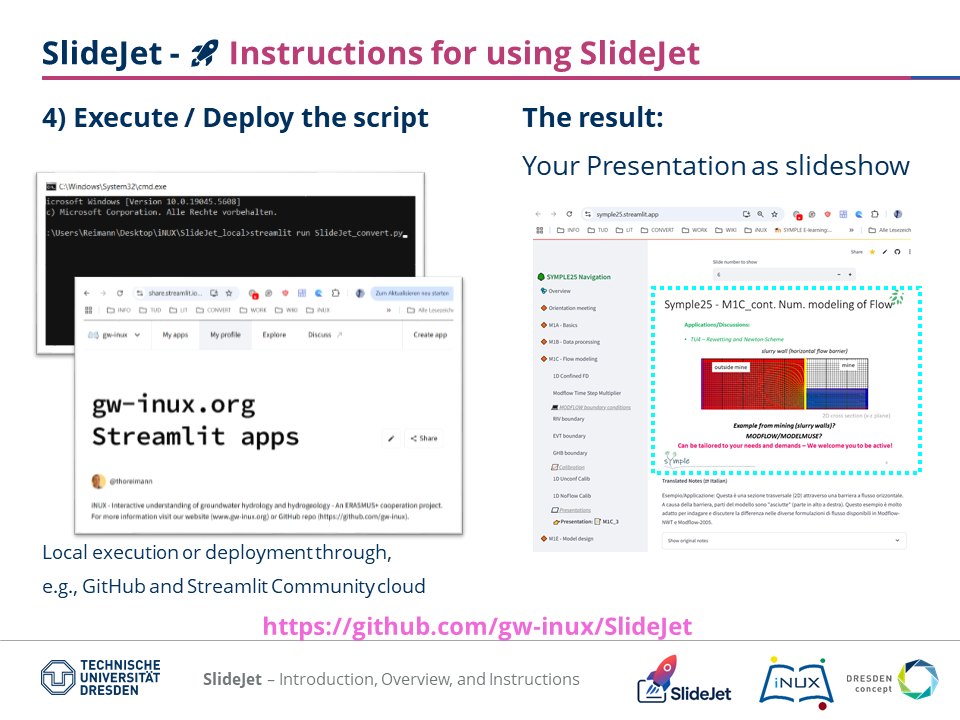
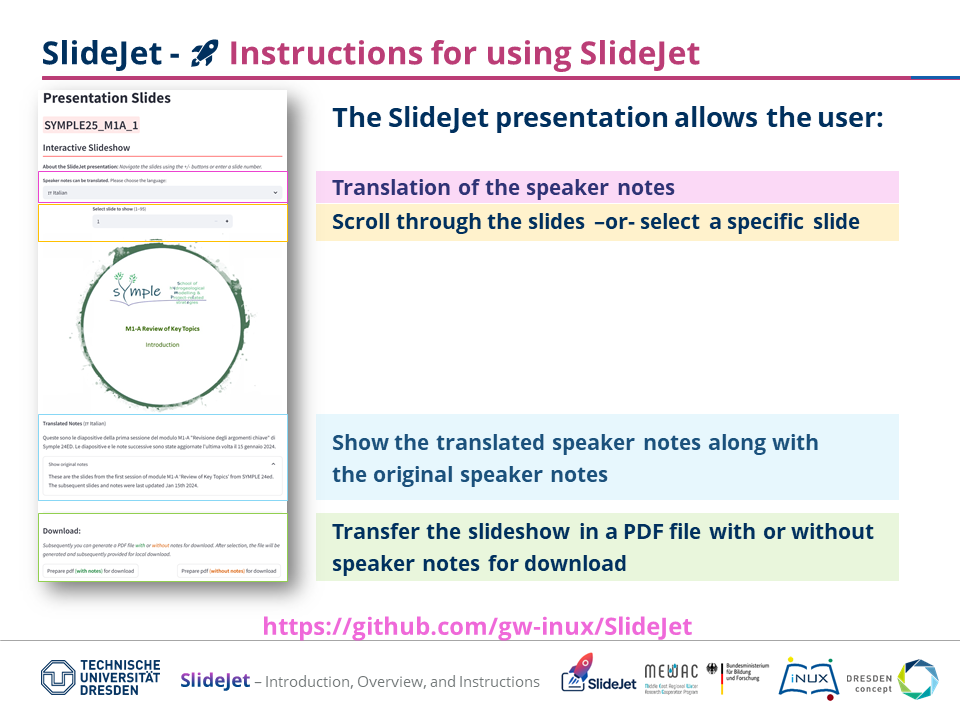
updates

Changed region(s): [[0.0312, 0.1222, 0.9688, 0.8556], [0.1875, 0.8861, 0.875, 1.0]]

diff --git a/SlideJet_convert.py b/SlideJet_convert.py
@@ -8,19 +8,50 @@ import pythoncom
 import win32com.client
 from PIL import Image
 
-###
-# Authors, institutions, and year
-year = 2025 
-authors = {
-    "Thomas Reimann": [1],  # Author 1 belongs to Institution 1
-   #"Colleague Name": [2],  # Author 2 also belongs to Institution 1
-}
-institutions = {
-    1: "TU Dresden",
-   #2: "Second Institution / Organization"
-}
-author_list = [f"{name}{''.join(f'<sup>{i}</sup>' for i in idxs)}" for name, idxs in authors.items()]
-institution_text = " | ".join([f"<sup>{i}</sup> {inst}" for i, inst in institutions.items()])
+# --- Functions
+
+def clear_old_files(folder_path):
+    """Deletes all files in the folder before writing new ones."""
+    if os.path.exists(folder_path):
+        shutil.rmtree(folder_path)  # Delete everything inside the folder
+    os.makedirs(folder_path)  # Recreate the folder
+
+def convert_ppt_to_images_using_powerpoint(ppt_path, image_dir):
+    """Uses PowerPoint COM automation to export full slides as images"""
+    pythoncom.CoInitialize()
+    powerpoint = win32com.client.Dispatch("PowerPoint.Application")
+    powerpoint.Visible = 1  # Run PowerPoint in the background
+    # Open the presentation
+    presentation = powerpoint.Presentations.Open(ppt_path, WithWindow=False)
+    # Ensure output directory exists and clear old images
+    clear_old_files(image_dir)
+    slide_data = []
+    slide_count = presentation.Slides.Count
+    for i in range(1, slide_count + 1):
+        slide_filename = f"slide_{i}.png"
+        slide_path = os.path.join(image_dir, slide_filename)
+        try:
+            presentation.Slides(i).Export(slide_path, "PNG")
+            # Extract notes
+            notes = "No notes"
+            if presentation.Slides(i).NotesPage.Shapes.Count > 1:
+                notes_shape = presentation.Slides(i).NotesPage.Shapes.Placeholders(2)
+                if notes_shape.TextFrame.HasText:
+                    notes = notes_shape.TextFrame.TextRange.Text.strip()
+            
+            # Store only relative path for the JSON
+            slide_data.append({"image": f"images/{slide_filename}", "notes": notes})
+        except Exception as e:
+            st.error(f"Error exporting slide {i}: {e}")
+    presentation.Close()
+    #powerpoint.Quit()
+    pythoncom.CoUninitialize()
+    return slide_data
+
+def save_slide_data_json(slide_data, json_file):
+    """Saves slide images and notes in a structured JSON format for Streamlit slideshow."""
+    with open(json_file, "w") as f:
+        json.dump(slide_data, f, indent=4)
 
 def save_yaml_config(yaml_output_path, slides_subfolder, header_text, subheader_text, mode, yaml_repo_path=None):
     if mode == "Local use":
@@ -40,6 +71,7 @@ def save_yaml_config(yaml_output_path, slides_subfolder, header_text, subheader_
     with open(yaml_output_path, "w") as f:
         yaml.dump(config, f, default_flow_style=False, sort_keys=False)
 
+# --- Application
 
 # Header and title
 st.set_page_config(
@@ -57,11 +89,20 @@ st.markdown("""
     SlideJet works with PowerPoint in the background to convert your slides. **Now** it's a good moment to safe your open presentations in case of unexpected troubles with PowerPoint.
         """)
 
+st.subheader('First step: Upload the presentation file', divider = 'green')
 # File upload section
 uploaded_file = st.file_uploader("Upload a PowerPoint file", type=["pptx"])
 
+
 if uploaded_file:
     
+    # --- Define Paths 
+    st.subheader('Next steps: Define paths', divider = 'green')
+    st.markdown("""
+    #### Local path
+    :green[**SlideJet-Convert**] will generate slideshow data that can be seen by the :orange[**SlideJet-Present**] app. The YAML-file, which contains some settings for :orange[**SlideJet-Present**], is saved in the same folder. Define the path of this folder (on your computer) below:
+    """
+    )
     # Extract filename (without extension)
     pptx_filename = os.path.splitext(uploaded_file.name)[0]
 
@@ -70,21 +111,36 @@ if uploaded_file:
         "Enter the folder where SlideJet_present is located (YAML will be saved here)",
         value=os.getcwd()
     )
+    st.markdown("""
+    #### Information for online deployment
+    :orange[**SlideJet-Present**] is typically placed in an online repository (e.g., GitHub) from where the Streamlit-app is deployed. Accordingly, the YAML file needs specific informations to find the presentation for online use. Define the path from the repository to the YAML file below:
+    """
+    )
     deployment_mode = st.radio("Deployment Mode",["Local use", "Online use (Streamlit Cloud)"], index=0)
     if deployment_mode == "Online use (Streamlit Cloud)":
         yaml_repo_path = st.text_input(
-            "Enter the repository-relative path to the YAML file (e.g., `project\presentations`)",
+            "Enter the relative path from the repository to the YAML file (e.g., `project\presentations`). The name of the repository is usually not part of the path",
             value=""
         )
-    
+    st.markdown("""
+    #### Relative path to the presentation data
+    :orange[**SlideJet-Present**] access the data from a folder that is typically named **slides**. Within slides, each presentation can be saved in a subfolder. Subsequently, you can define the relative path, whereas the presetting is likely suitable for most users:
+    """
+    )
     # Slides folder (relative to SlideJet_present folder)
     slides_subfolder = st.text_input(
-        "Enter the relative path where the slides will be saved (from YAML location)",
+        "Enter the relative path where the slides will be saved (from YAML location). Usually it 'slides/[NAME_OF_PRESENTATION]'",
         value=os.path.join("slides", pptx_filename).replace("\\", "/")
     )
     # Compute the absolute output directory
     slides_absolute_path = os.path.join(present_folder, slides_subfolder)
     
+    # --- PRESENTATION HEADERS
+    st.subheader('SlideJet-Present header information', divider = 'green')
+    st.markdown("""
+    :orange[**SlideJet-Present**] is an interactive Streamlit app that shows your presentation with notes as a slideshow. Subsequently, you can define the header and subheader for your specific :orange[**SlideJet-Present**] Streamlit app. This information will be safed in the YAML-file.
+    """
+    )
     default_header = f"{pptx_filename}"
     default_subheader = "Interactive Slideshow"
     header_text = st.text_input("Enter header text (main title)", value=default_header)
@@ -96,60 +152,14 @@ if uploaded_file:
     IMAGE_DIR = os.path.join(OUTPUT_DIR, "images")
     JSON_FILE = os.path.join(OUTPUT_DIR, "slide_data.json")
 
-
-    def clear_old_files(folder_path):
-        """Deletes all files in the folder before writing new ones."""
-        if os.path.exists(folder_path):
-            shutil.rmtree(folder_path)  # Delete everything inside the folder
-        os.makedirs(folder_path)  # Recreate the folder
-
-    def convert_ppt_to_images_using_powerpoint(ppt_path, image_dir):
-        """Uses PowerPoint COM automation to export full slides as images"""
-        pythoncom.CoInitialize()
-        powerpoint = win32com.client.Dispatch("PowerPoint.Application")
-        powerpoint.Visible = 1  # Run PowerPoint in the background
-
-        # Open the presentation
-        presentation = powerpoint.Presentations.Open(ppt_path, WithWindow=False)
-
-        # Ensure output directory exists and clear old images
-        clear_old_files(image_dir)
-
-        slide_data = []
-        slide_count = presentation.Slides.Count
-
-        for i in range(1, slide_count + 1):
-            slide_filename = f"slide_{i}.png"
-            slide_path = os.path.join(image_dir, slide_filename)
-
-            try:
-                presentation.Slides(i).Export(slide_path, "PNG")
-
-                # Extract notes
-                notes = "No notes"
-                if presentation.Slides(i).NotesPage.Shapes.Count > 1:
-                    notes_shape = presentation.Slides(i).NotesPage.Shapes.Placeholders(2)
-                    if notes_shape.TextFrame.HasText:
-                        notes = notes_shape.TextFrame.TextRange.Text.strip()
-                
-                # Store only relative path for the JSON
-                slide_data.append({"image": f"images/{slide_filename}", "notes": notes})
-
-            except Exception as e:
-                st.error(f"Error exporting slide {i}: {e}")
-
-        presentation.Close()
-        #powerpoint.Quit()
-        pythoncom.CoUninitialize()
-
-        return slide_data
-
-    def save_slide_data_json(slide_data, json_file):
-        """Saves slide images and notes in a structured JSON format for Streamlit slideshow."""
-        with open(json_file, "w") as f:
-            json.dump(slide_data, f, indent=4)
-
-    if st.button("Convert to Slideshow Data"):
+    # --- Final Step - Convert
+    st.subheader('Final step: Convert the slideshow', divider = 'green')
+    
+    col1, col2, col3 = st.columns((1,1,1))
+    with col2:
+        start_convert = st.button(":rainbow[**Convert to Slideshow Data**]")
+        
+    if start_convert:
         # Save uploaded file to a unique temporary file
         with tempfile.NamedTemporaryFile(delete=False, suffix=".pptx") as tmp_file:
             tmp_file.write(uploaded_file.getbuffer())
@@ -166,11 +176,9 @@ if uploaded_file:
             st.success(f"Slide data JSON saved for Streamlit slideshow in `{JSON_FILE}`.")
             
             # Write YAML file in parent folder
-#           yaml_file = os.path.join(script_dir, f"{pptx_filename}_slidejet_config.yaml")
             yaml_file = os.path.join(present_folder, f"{pptx_filename}_slidejet_config.yaml")
             # Compute correct relative path from script dir to output dir
             #slides_relative_path = os.path.relpath(OUTPUT_DIR, script_dir).replace("\\", "/")
-#           save_yaml_config(slides_relative_path, yaml_file, header_text, subheader_text)
             if deployment_mode == "Online use (Streamlit Cloud)":
                 save_yaml_config(
                     yaml_output_path=yaml_file,
@@ -189,19 +197,31 @@ if uploaded_file:
                     mode=deployment_mode
                 )
 
-
             st.success(f"YAML config for SlideJet Present saved as `{yaml_file}`.")
             st.markdown("""
             #### Next steps
-            Now you will find the slides, the speaker notes (as *.json file), and the YAML file in the generated folders - see messages above. The see and present the slides, use the **SlideJet_present**.py application with the generated YAML file. You have two options:
-            (1) Directly refer to the YAML file from the SlideJet_present.py application, or
-            (2) Select and load the YAML file from the SlideJet_present.py application.
+            Now you will find the slides, the speaker notes (as *.json file), and the YAML file in the generated folders - see messages above. The see and present the slides, use the :orange[**SlideJet_present.py**] application with the generated YAML file. You have two options:
+            (1) Directly refer to the YAML file from the :orange[**SlideJet_present.py**] application, or
+            (2) Select and load the YAML file from the :orange[**SlideJet_present.py**] application.
             """)
         
         # Delete temporary file
         os.remove(temp_ppt_path)
 
 '---'
+# Authors, institutions, and year
+year = 2025 
+authors = {
+    "Thomas Reimann": [1],  # Author 1 belongs to Institution 1
+   #"Colleague Name": [2],  # Author 2 also belongs to Institution 1
+}
+institutions = {
+    1: "TU Dresden",
+   #2: "Second Institution / Organization"
+}
+author_list = [f"{name}{''.join(f'<sup>{i}</sup>' for i in idxs)}" for name, idxs in authors.items()]
+institution_text = " | ".join([f"<sup>{i}</sup> {inst}" for i, inst in institutions.items()])
+
 # Render footer with authors, institutions, and license logo in a single line
 columns_lic = st.columns((4,1,1))
 with columns_lic[0]:

diff --git a/SlideJet_present.py b/SlideJet_present.py
@@ -17,14 +17,17 @@ from reportlab.lib.units import cm
 
 ###########################
 # EVENTUALLY ADAPT HERE:
-#
-# PART OF A MULTIPAGE-APP? REMOVE THE FOLLOWING LINE
+
+# PART OF A MULTIPAGE-APP?
+# THEN REMOVE THE FOLLOWING LINE
 st.set_page_config(page_title="SlideJet - Present", page_icon="🚀")
-#
+
 # --- Default YAML path, use / ---
 DEFAULT_YAML = "example.yaml"
 
-# --- Proxy ID --- This should be a unique ID if the app is used multiple times in a multipage app (string required)
+# --- Proxy ID --- This should be
+# an unique ID if the app is used
+# multiple times in a multipage app (string required)
 app_id = "app01"
 #
 ###########################
@@ -190,11 +193,14 @@ presentation_folder_key = f"{app_id}_presentation_folder"
 images_folder_key = f"{app_id}_images_folder"
 header_text_key = f"{app_id}_header_text"
 subheader_text_key = f"{app_id}_subheader_text"
-
+default_yaml_key = f"{app_id}_default_yaml"
 
 # --- Initialize reset mode ---
 if reset_key not in st.session_state:
     st.session_state[reset_key] = False
+    
+if default_yaml_key not in st.session_state:
+    st.session_state[default_yaml_key] = DEFAULT_YAML
 
 # --- Configuration loading / depending if it's the start or a reset ---
 if config_key not in st.session_state or st.session_state[config_key] is None:
@@ -202,7 +208,8 @@ if config_key not in st.session_state or st.session_state[config_key] is None:
     if st.session_state[reset_key]:
         # User wants to load a new YAML, show uploader
         st.session_state[config_key] = None
-        st.warning("Please upload a new SlideJet YAML file.")
+        st.warning("Please upload a new SlideJet YAML file. Alternatively, you can use the Default YAML again.")
+        
         uploaded_yaml = st.file_uploader("Upload your slidejet_config.yaml", type=["yaml", "yml"])
 
         if uploaded_yaml is not None:
@@ -217,6 +224,20 @@ if config_key not in st.session_state or st.session_state[config_key] is None:
                 st.stop()
             st.session_state[reset_key] = False  # Done loading new config
             st.rerun()  # Restart to apply
+        
+        col1, col2, col3 = st.columns((1,1,1))
+        with col2:
+            if st.button("🔄 Use Default YAML again"):
+                try:
+                    with open(st.session_state[default_yaml_key], "r", encoding="utf-8") as f:
+                        st.session_state[config_key] = yaml.safe_load(f)
+                    validate_config(st.session_state[config_key])
+                    st.session_state[reset_key] = False
+                    st.success("Default YAML loaded.")
+                    st.rerun()
+                except Exception as e:
+                    st.error(f"Error loading default YAML: {e}")
+                    st.stop()
 
         if st.session_state[config_key] is None:
             st.stop()
